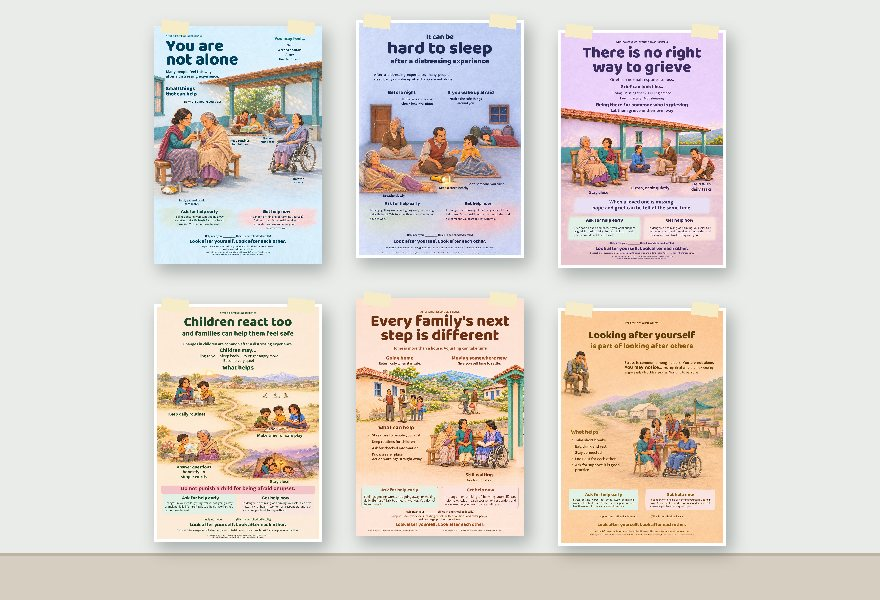
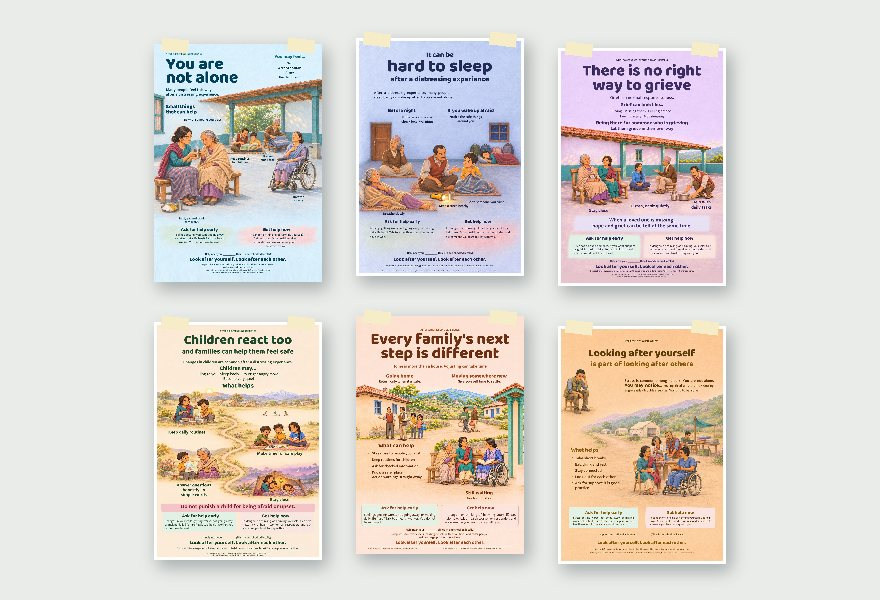
Entry screen fits one screen without scrolling: condensed text, contained mockups, fitGate() scaling (min 0.82 on phones, sticky buttons as fallback)
Claude-Session: https://claude.ai/code/session_01FeFBNtDnR6Tarxn2mMUM3N

diff --git a/index.html b/index.html
@@ -318,76 +318,91 @@ a:focus-visible,button:focus-visible,summary:focus-visible{outline:3px solid var
 @media(max-width:820px){.story{grid-template-columns:1fr 1fr;gap:10px}.ov-h{font-size:25px}.sc{padding:26px 10px 12px}.sc-title{font-size:14.5px}.face{width:38px;height:38px}.world{grid-template-columns:1fr}.world img{max-width:220px}.swatches{grid-template-columns:1fr 1fr}}
 @media(max-width:430px){.story{grid-template-columns:1fr}.sc-title{min-height:0}}
 
-/* entry screen */
+/* entry screen: one full screen, no scrolling; fitGate() scales it down on short screens */
 html:not(.entered) body>.top,html:not(.entered) body>.shell,html:not(.entered) body>footer{display:none}
+html:not(.entered),html:not(.entered) body{height:100%;overflow:hidden}
 html.entered #gate{display:none}
-#gate{max-width:1240px;margin:auto;padding:28px 24px 120px}
-#gate .eyebrow{font-size:11.5px;letter-spacing:.12em;font-weight:700;color:#6f455f}
-#gate h1{margin:4px 0 6px;font-size:34px;line-height:1.15;color:var(--blue)}
-#gate .lead{font-size:17.5px;margin:0 0 22px;text-align:justify;hyphens:none}
-#gate h2{font-size:19px;margin:0 0 10px;color:var(--ink)}
-.gprods{display:grid;grid-template-columns:repeat(3,minmax(0,1fr));gap:18px;margin-bottom:22px}
-.gprods figure{margin:0;background:#fff;border:1px solid var(--line);border-radius:14px;padding:12px}
-.gprods img{display:block;width:100%;height:auto;aspect-ratio:22/15;object-fit:cover;border-radius:10px}
-.gprods figcaption{padding:10px 4px 2px}
-.gprods b{display:block;font-size:20px;color:var(--blue)}
-.gprods span{display:block;font-size:14.5px;color:var(--muted);text-align:justify;hyphens:none}
-.gcols{display:grid;grid-template-columns:minmax(0,1fr) minmax(0,1fr);gap:18px;align-items:start}
-.gbox{background:#fff;border:1px solid var(--line);border-radius:14px;padding:18px 20px}
-.gbox p,.gbox li{text-align:justify;hyphens:none;overflow-wrap:normal}
+#gate{--gs:1;font-size:calc(16px * var(--gs));height:100vh;height:100dvh;display:flex;flex-direction:column;max-width:1320px;margin:auto;padding:1.1em 1.5em .9em;gap:.8em}
+#gate.scroll{overflow:auto}
+#gate.scroll .gact{position:sticky;bottom:0;background:var(--bg);padding:.5em 0;box-shadow:0 -6px 12px rgba(0,0,0,.05)}
+#gate .ghead .eyebrow{font-size:.72em;letter-spacing:.12em;font-weight:700;color:#6f455f}
+#gate h1{margin:.1em 0 .2em;font-size:1.9em;line-height:1.15;color:var(--blue)}
+#gate .lead{font-size:1.04em;margin:0;text-align:justify;hyphens:none;line-height:1.45}
+#gate h2{font-size:1.05em;margin:0 0 .45em;color:var(--ink);line-height:1.25}
+.gprods{display:grid;grid-template-columns:repeat(3,minmax(0,1fr));gap:.9em;flex:1 1 auto;min-height:0}
+.gprods figure{margin:0;background:#fff;border:1px solid var(--line);border-radius:12px;padding:.55em;display:flex;flex-direction:column;min-height:0}
+.gprods img{display:block;width:100%;flex:1 1 auto;min-height:0;height:0;object-fit:contain;border-radius:8px}
+.gprods figure:nth-child(1) img{background:#e9ece9}.gprods figure:nth-child(2) img{background:#eef5f7}.gprods figure:nth-child(3) img{background:#f2eef8}
+.gprods figcaption{padding:.45em .2em 0;flex:0 0 auto}
+.gprods b{font-size:1.08em;color:var(--blue)}
+.gprods span{font-size:.86em;color:var(--muted)}
+.gcols{display:grid;grid-template-columns:minmax(0,.9fr) minmax(0,1.1fr);gap:.9em;flex:0 0 auto}
+.gbox{background:#fff;border:1px solid var(--line);border-radius:12px;padding:.8em 1em;font-size:.9em;line-height:1.45}
+.gbox p,.gbox li{text-align:justify;hyphens:none;overflow-wrap:normal;margin:0}
+.gbox p+p{margin-top:.45em}
 .gbox.inv{background:#eef6ef;border-color:#cfe3d4}
 .gbox.inv h2{color:var(--ok)}
-.gbox ol{margin:0;padding-left:22px}.gbox li{margin:0 0 8px}
-.gdo{display:flex;flex-wrap:wrap;gap:8px;margin:0 0 14px;padding:0;list-style:none}
-.gdo li{margin:0;font-size:14px;background:#f1f0ea;border:1px solid var(--line);border-radius:999px;padding:5px 12px;text-align:left}
-.gact{position:fixed;left:0;right:0;bottom:0;background:rgba(255,255,255,.96);border-top:1px solid var(--line);box-shadow:0 -6px 18px rgba(0,0,0,.06);z-index:20}
-.gact-in{max-width:1240px;margin:auto;padding:12px 24px;display:flex;gap:10px;align-items:center;flex-wrap:wrap}
-.gact-in .gnote{font-size:13.5px;color:var(--muted);margin-right:auto}
-.gact button{font:inherit;font-weight:700;border-radius:10px;padding:10px 16px;cursor:pointer;border:1px solid var(--line2);background:#fff;color:var(--ink)}
+.gbox ol{margin:0;padding-left:1.3em}.gbox li{margin:0 0 .2em}
+.gact{flex:0 0 auto;display:flex;gap:.6em;align-items:center;flex-wrap:wrap;padding-top:.1em}
+.gact .gnote{font-size:.85em;color:var(--muted);margin-right:auto}
+.gact button{font:inherit;font-size:.95em;font-weight:700;border-radius:10px;padding:.6em 1em;cursor:pointer;border:1px solid var(--line2);background:#fff;color:var(--ink)}
 .gact button.yes{background:var(--blue);border-color:var(--blue);color:#fff}
 .gact button.yes2{background:var(--ok);border-color:var(--ok);color:#fff}
-#gate .bye{display:none;font-size:18px;padding:40px 0;text-align:center}
-#gate.declined .gbody,#gate.declined .gact{display:none}#gate.declined .bye{display:block}
-@media(max-width:900px){.gprods{grid-template-columns:1fr}.gcols{grid-template-columns:1fr}#gate h1{font-size:28px}#gate{padding:20px 16px 170px}.gact-in{padding:8px 12px;gap:6px 8px}.gact-in .gnote{display:none}.gact button{padding:9px 8px;font-size:14.5px}.gact button.yes,.gact button.yes2{flex:1 1 40%}.gact button.no{order:3;flex:1 1 100%;border:0;background:none;text-decoration:underline;padding:2px;font-weight:600;color:var(--muted)}#gate{padding-bottom:130px}}
+#gate .bye{display:none;font-size:1.15em;margin:auto;text-align:center}
+#gate.declined>*:not(.bye){display:none}#gate.declined .bye{display:block}
+@media(max-width:760px){
+ #gate{padding:.8em .9em .7em;gap:.6em}
+ #gate .ghead .eyebrow{display:none}
+ #gate h1{font-size:1.4em}
+ #gate .lead{font-size:.92em;line-height:1.4}
+ .gprods{gap:.45em;flex:0 0 auto}
+ .gprods figure{padding:.3em;border-radius:9px}
+ .gprods img{flex:none;height:auto;aspect-ratio:22/15}
+ .gprods figcaption{padding:.3em .1em 0;line-height:1.2}
+ .gprods b{font-size:.92em}.gprods span{display:none}
+ .gcols{grid-template-columns:1fr;gap:.5em}
+ .gbox{font-size:.84em;padding:.55em .75em;line-height:1.36}
+ .gbox h2{margin-bottom:.3em}
+ .gact{gap:.4em .5em}.gact .gnote{display:none}
+ .gact button{padding:.6em .5em;font-size:.88em}
+ .gact button.yes,.gact button.yes2{flex:1 1 40%}
+ .gact button.no{order:3;flex:1 1 100%;border:0;background:none;text-decoration:underline;padding:.1em;color:var(--muted)}
+}
 </style>
 </head>
 <body>
 <section id="gate" aria-labelledby="gate-h">
- <div class="gbody">
+ <div class="ghead">
   <div class="eyebrow">AFTER THE FLOOD · MHPSS NEPAL IEC SERIES</div>
   <h1 id="gate-h">Welcome to the IEC review space</h1>
-  <p class="lead"><i>After the Flood</i> is a series of six chapters of information materials for communities affected by the floods and for the people who support them. Each chapter has a poster, a leaflet and a Health Talk Guide, in English and Nepali. This page shares them with partners for review before they are finalised.</p>
-  <h2>What you will find inside</h2>
-  <div class="gprods">
-   <figure><img src="assets/overview/entry-posters.jpg" alt="Posters for the six chapters on a wall" width="880" height="600"><figcaption><b>6 posters</b><span>One per chapter, each in three design options (A, B and C). A3, for community walls; Chapter 6 for staff areas.</span></figcaption></figure>
-   <figure><img src="assets/overview/entry-leaflets.jpg" alt="Covers of the six leaflets, fanned" width="880" height="600"><figcaption><b>6 leaflets</b><span>A4 tri-fold leaflets to take home, each in an online version and a print version.</span></figcaption></figure>
-   <figure><img src="assets/overview/entry-guides.jpg" alt="First pages of the six Health Talk Guides, fanned" width="880" height="600"><figcaption><b>6 Health Talk Guides</b><span>Five-page A4 guides for facilitators leading a short group session; Chapter 6 for supervisors and team leaders.</span></figcaption></figure>
+  <p class="lead">Six chapters of information materials for communities affected by the floods and for the people who support them, in English and Nepali, shared with partners for review before they are finalised.</p>
+ </div>
+ <div class="gprods">
+  <figure><img src="assets/overview/entry-posters.jpg" alt="Posters for the six chapters on a wall" width="880" height="600"><figcaption><b>6 posters</b> <span>· three design options each, A3</span></figcaption></figure>
+  <figure><img src="assets/overview/entry-leaflets.jpg" alt="Covers of the six leaflets, fanned" width="880" height="600"><figcaption><b>6 leaflets</b> <span>· A4 tri-fold, to take home</span></figcaption></figure>
+  <figure><img src="assets/overview/entry-guides.jpg" alt="First pages of the six Health Talk Guides, fanned" width="880" height="600"><figcaption><b>6 Health Talk Guides</b> <span>· for short group sessions</span></figcaption></figure>
+ </div>
+ <div class="gcols">
+  <div class="gbox inv">
+   <h2>Help us check the Nepali</h2>
+   <p>The Nepali texts are draft machine translations. Native Nepali speakers are welcome to check them row by row against the English; this is voluntary and unpaid. We plan to acknowledge contributors, by name or by organisation as each chooses, in the printed package of these materials and on the project website.</p>
   </div>
-  <div class="gcols">
-   <div class="gbox inv">
-    <h2>What you can do here</h2>
-    <ul class="gdo"><li>View every product</li><li>Comment and choose a poster option</li><li>Check the Nepali text row by row</li></ul>
-    <h2>Help us check the Nepali</h2>
-    <p>The Nepali texts are draft machine translations. We would welcome native Nepali speakers to check them row by row against the English, on the Translation and proofreading page of each chapter. Proofreading is voluntary and unpaid.</p>
-    <p>If you take part, as an individual or on behalf of your organisation, you can choose how you would like to be acknowledged. We plan to list proofreading contributors in the printed package of these materials and on the project website.</p>
-   </div>
-   <div class="gbox">
-    <h2>Please read before you enter</h2>
-    <ol>
-     <li>These are draft materials shared for review by partners. They are not final and are not approved for use in the field.</li>
-     <li>Please do not print, distribute or post these materials outside the review group, and do not share this link without agreement from the coordination team.</li>
-     <li>The Nepali versions are machine translations awaiting review by native speakers.</li>
-     <li>The illustrations are fictional, AI-assisted and developed under human direction.</li>
-     <li>This is not a WHO website, and the materials are not endorsed WHO products.</li>
-     <li>If you give feedback or proofread, your name, organisation, email, your feedback and your choice of acknowledgement are stored to coordinate the review and to prepare the list of contributors.</li>
-    </ol>
-   </div>
+  <div class="gbox">
+   <h2>Please read before you enter</h2>
+   <ol>
+    <li>Draft materials for partner review: not final and not approved for use in the field.</li>
+    <li>Do not print, distribute or share them, or this link, outside the review group without the coordination team's agreement.</li>
+    <li>The Nepali versions are machine translations awaiting review by native speakers.</li>
+    <li>The illustrations are fictional, AI-assisted and developed under human direction.</li>
+    <li>Not a WHO website; the materials are not endorsed WHO products.</li>
+    <li>Your name, organisation, email, feedback and acknowledgement choice are stored to coordinate the review and credit contributors.</li>
+   </ol>
   </div>
  </div>
- <div class="gact"><div class="gact-in"><span class="gnote">By entering you agree to the points above.</span>
+ <div class="gact"><span class="gnote">By entering you agree to the points above.</span>
   <button type="button" class="no" data-gate="no">I do not agree</button>
   <button type="button" class="yes" data-gate="yes">I understand and agree</button>
-  <button type="button" class="yes2" data-gate="proof">Agree and go to proofreading</button></div></div>
+  <button type="button" class="yes2" data-gate="proof">Agree and go to proofreading</button></div>
  <p class="bye" role="status">Thank you. You can close this page.<br><button type="button" data-gate="back" style="margin-top:14px;font:inherit;border:1px solid var(--line2);background:#fff;border-radius:10px;padding:8px 14px;cursor:pointer">Read the points again</button></p>
 </section>
 <div class="top"><div class="top-in">
@@ -736,9 +751,15 @@ function render(){
   window.scrollTo(0,0);
 }
 
+function fitGate(){const g=document.getElementById('gate');if(!g||document.documentElement.classList.contains('entered'))return;
+  g.classList.remove('scroll');let k=1;g.style.setProperty('--gs',k);
+  const over=()=>g.scrollHeight>g.clientHeight+1||[...g.querySelectorAll('.gprods img')].some(i=>i.clientHeight<(innerWidth>760?90:40));
+  const min=innerWidth>760?0.7:0.82;while(over()&&k>min){k-=0.02;g.style.setProperty('--gs',k.toFixed(2))}
+  if(over())g.classList.add('scroll');}
+addEventListener('resize',fitGate);addEventListener('load',fitGate);fitGate();
 document.addEventListener('click',e=>{const b=e.target.closest('[data-gate]');if(!b)return;const g=document.getElementById('gate'),k=b.dataset.gate;
-  if(k==='no'){g.classList.add('declined');scrollTo(0,0);return}
-  if(k==='back'){g.classList.remove('declined');return}
+  if(k==='no'){g.classList.add('declined');return}
+  if(k==='back'){g.classList.remove('declined');fitGate();return}
   try{localStorage.setItem('iec-entry',JSON.stringify(GATE_V))}catch(e){}
   document.documentElement.classList.add('entered');scrollTo(0,0);
   if(k==='proof'&&!/translation$/.test(location.hash))location.hash='#ch1/translation';});
